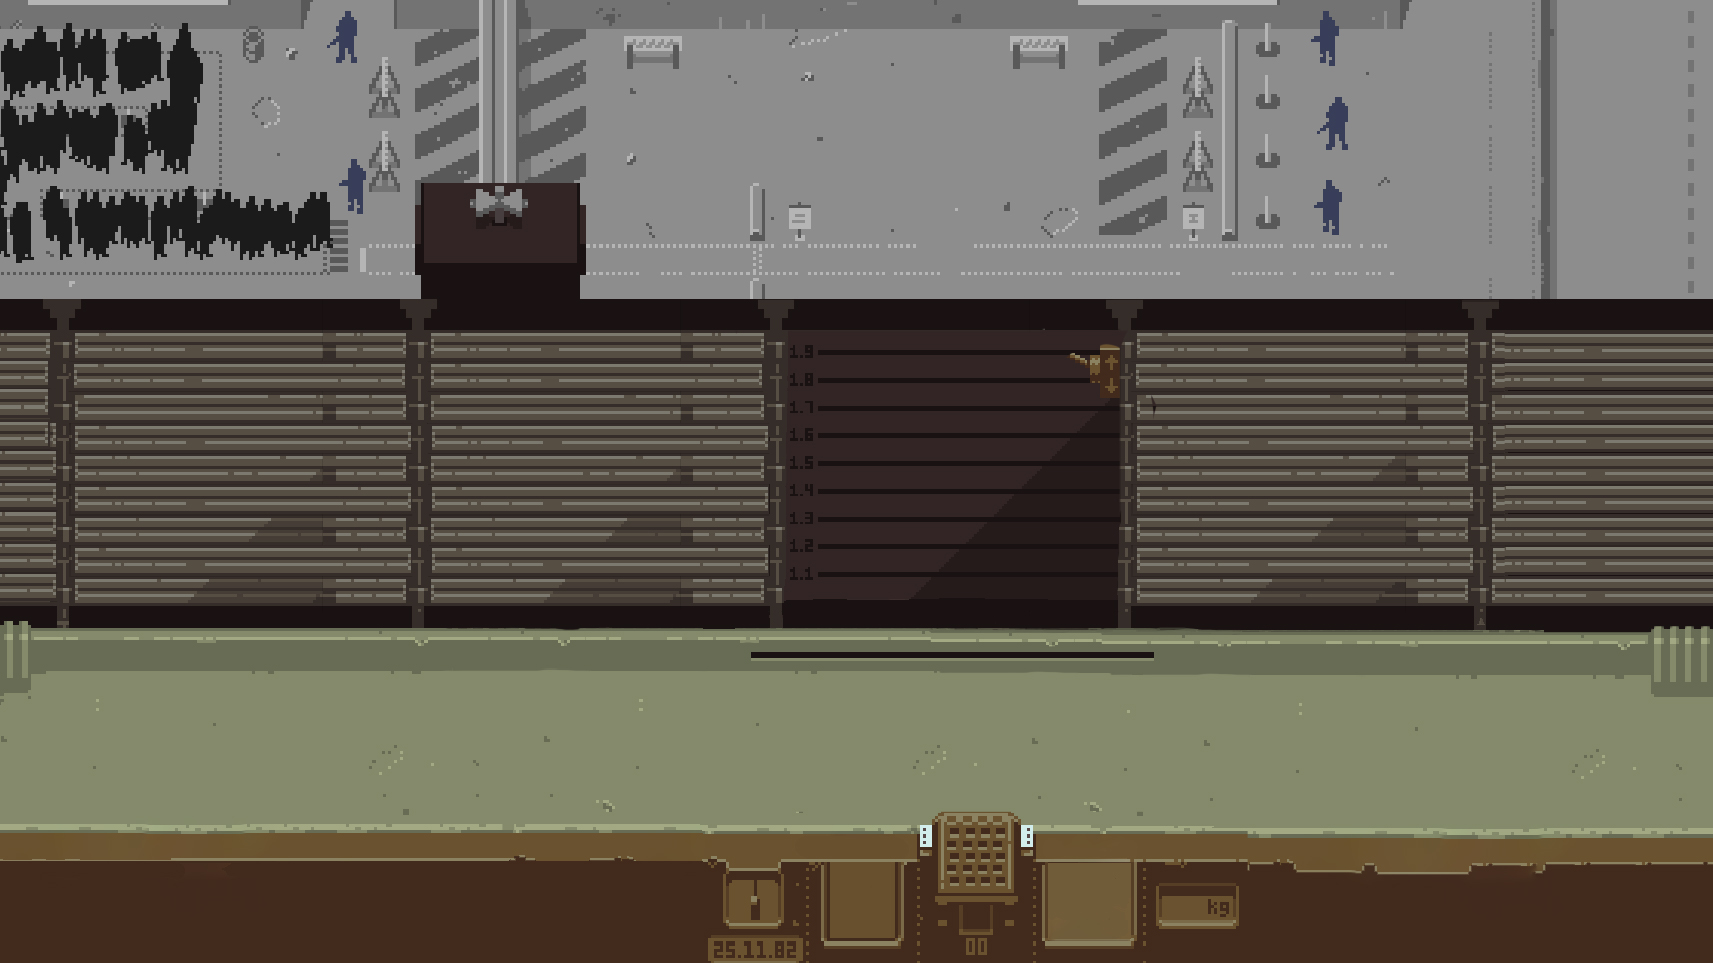
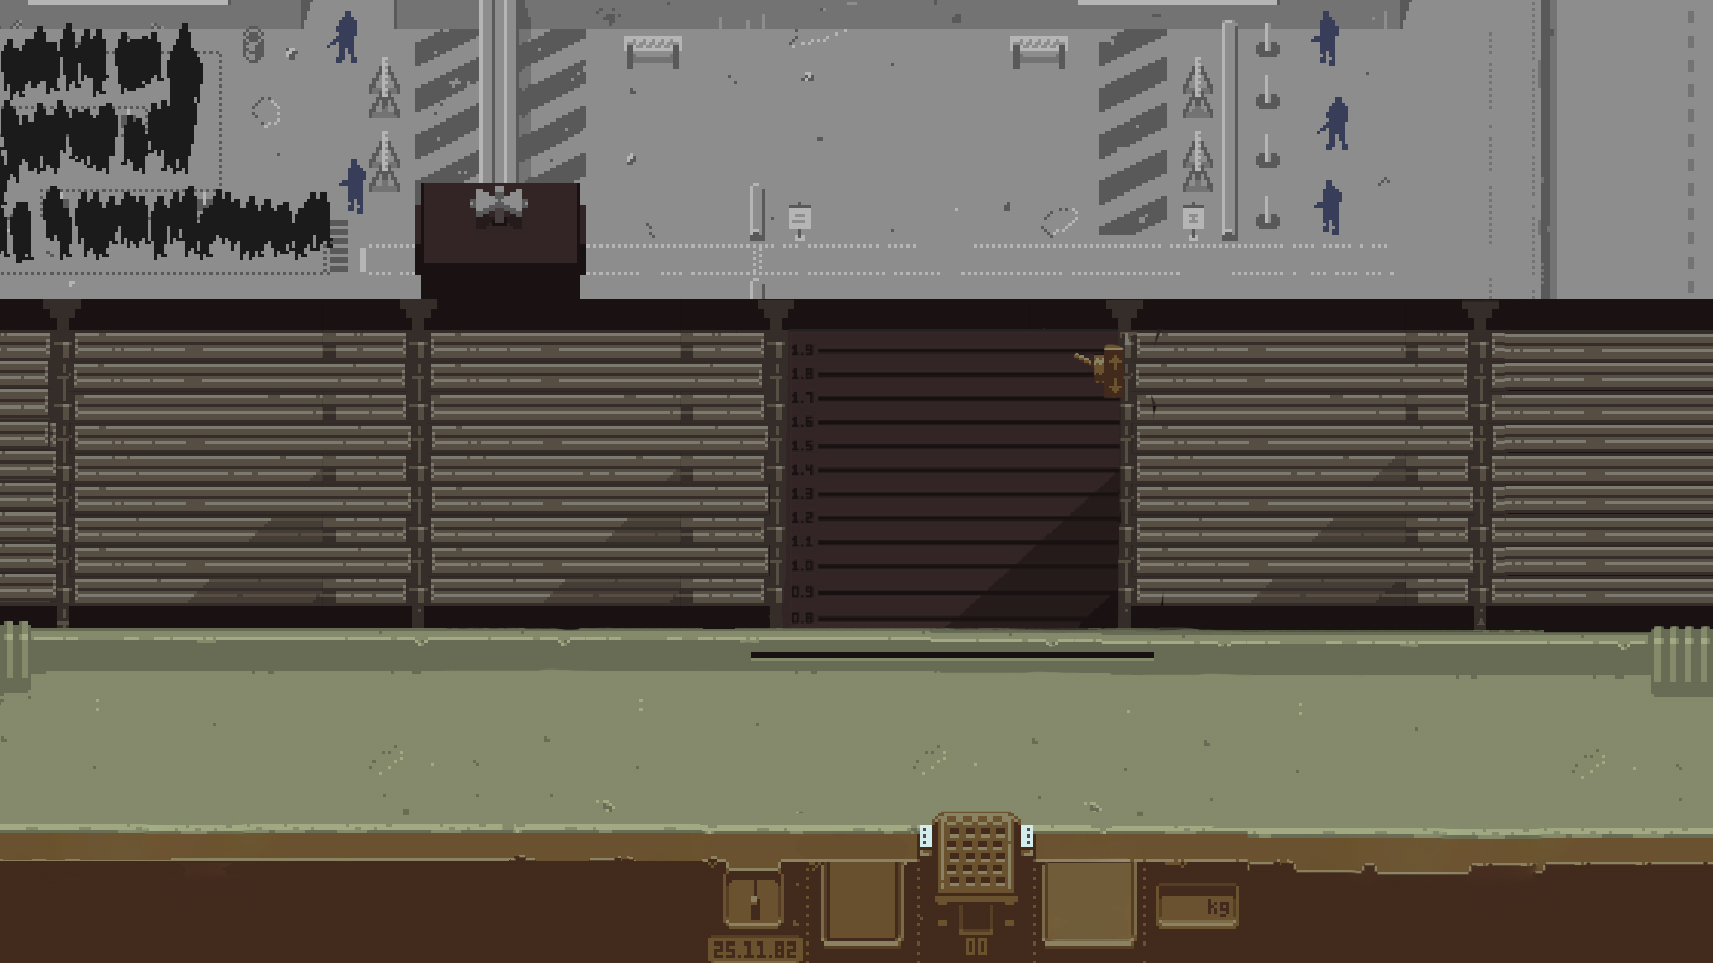
Added people chars

Changed region(s): [[0.4641, 0.3427, 0.6497, 0.5296], [0.4332, 0.5607, 0.5879, 0.6542]]

diff --git a/public/js/circle.js b/public/js/circle.js
@@ -20,7 +20,6 @@ class Circle{
     mousePosCalculation(xMouse,yMouse){
         return Math.sqrt(( ( xMouse - this.xpoint ) * ( xMouse - this.xpoint ) ) + ( ( yMouse - this.ypoint ) * ( yMouse - this.ypoint )));
     }
-
     rulebookOnclick(xMouse,yMouse){
         const distance = this.mousePosCalculation(xMouse,yMouse);
         if(distance < this.radius){
@@ -30,11 +29,13 @@ class Circle{
             return false;
         }
     }
+
     approveStampOnclick(xMouse,yMouse){
         const distance = this.mousePosCalculation(xMouse,yMouse);
         if(distance < this.radius){
             decision = true;
             console.log(decision);
+            imgRandom();
             return true;
         }else{
             return false;
@@ -45,12 +46,12 @@ class Circle{
         if(distance < this.radius){
             decision = false;
             console.log(decision);
+            imgRandom();
             return true;
         }else{
             return false;
         }
     }
-
     showModal(){
         modal.style.display = "block";
         modalImg.src="images/RulesInnerBasic.png";

diff --git a/public/js/canvas.js b/public/js/canvas.js
@@ -18,6 +18,14 @@ var rulebookImg = document.getElementById("rulebook")
 var rulebookImage = document.getElementById("rulebook").getAttribute("src");
 var approveStamp = document.getElementById("approveStamp").getAttribute("src");
 var denyStamp = document.getElementById("denyStamp").getAttribute("src");
+var people = ['images/person1.png', 'images/person2.png', 'images/person3.png', 'images/person4.png','images/person5.png','images/person6.png','images/person7.png','images/person8.png'];
+
+function imgRandom() {
+    var rand = people[Math.floor(Math.random() * people.length)];
+    var image = new Image();
+    image.src = rand;
+    context.drawImage(image, 615, 290, 200, 180);
+}
 
 // Modal var
 var modal = document.getElementById("myModal");

diff --git a/resources/views/index.blade.php b/resources/views/index.blade.php
@@ -18,10 +18,10 @@
             <div id="caption"></div>
         </div>
 
-        <img id="rulebook" src="{{asset('images/RuleBook.png')}}" alt="rulebook">
-        <img id="rulebookOpen" src="{{asset('images/RulesInnerBasic.png')}}" alt="rulebook basics">
-        <img id="approveStamp" src="{{asset('images/StampBotApproved.png')}}" alt="approve stamp">
-        <img id="denyStamp" src="{{asset('images/StampBotDenied.png')}}" alt="deny stamp">
+        <img class="image" id="rulebook" src="{{asset('images/RuleBook.png')}}" alt="rulebook">
+        <img class="image" id="rulebookOpen" src="{{asset('images/RulesInnerBasic.png')}}" alt="rulebook basics">
+        <img class="image" id="approveStamp" src="{{asset('images/StampBotApproved.png')}}" alt="approve stamp">
+        <img class="image" id="denyStamp" src="{{asset('images/StampBotDenied.png')}}" alt="deny stamp">
         </div>
     </body>
     <script type="text/javascript" src="{{URL::asset('js/app.js')}}"></script>
